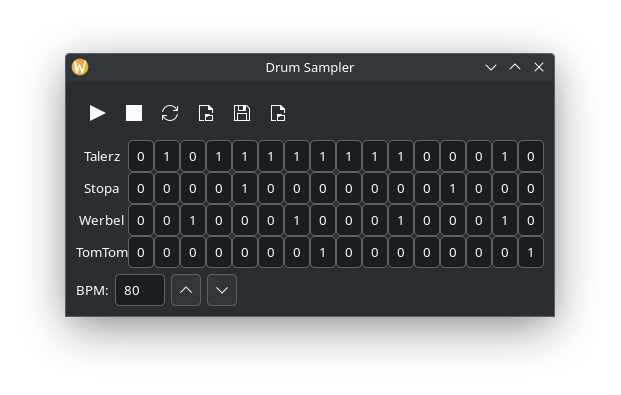
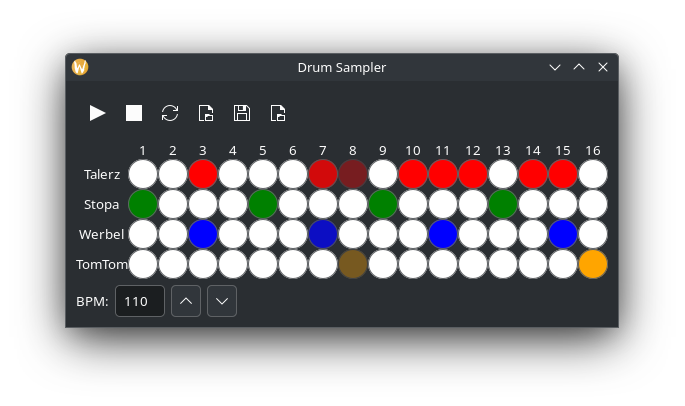
Add files via upload

diff --git a/drum-sampler-app.py b/drum-sampler-app.py
@@ -1,0 +1,258 @@
+import gi
+import random
+import time
+import threading
+import pygame
+import json
+import os
+
+gi.require_version('Gtk', '3.0')
+from gi.repository import Gtk, GLib, Gdk
+
+class DrumSamplerApp(Gtk.Window):
+    def __init__(self):
+        Gtk.Window.__init__(self, title="Drum Sampler")
+        self.set_border_width(10)
+
+        pygame.mixer.init()
+
+        self.main_box = Gtk.Box(orientation=Gtk.Orientation.VERTICAL, spacing=6)
+        self.add(self.main_box)
+
+        # Create toolbar
+        self.create_toolbar()
+
+        self.grid = Gtk.Grid()
+        self.main_box.pack_start(self.grid, True, True, 0)
+
+        self.instruments = ['Talerz', 'Stopa', 'Werbel', 'TomTom']
+        self.colors = ['red', 'green', 'blue', 'orange']
+        self.patterns = {inst: [0] * 16 for inst in self.instruments}
+        self.samples = {}
+        self.buttons = {}
+
+        # Add numbers from 1 to 16 above the pattern
+        for step in range(16):
+            label = Gtk.Label(label=str(step + 1))
+            self.grid.attach(label, step + 1, 0, 1, 1)
+
+        for idx, (instrument, color) in enumerate(zip(self.instruments, self.colors)):
+            label = Gtk.Label(label=instrument)
+            self.grid.attach(label, 0, idx + 1, 1, 1)
+
+            self.buttons[instrument] = []
+            for step in range(16):
+                button = Gtk.ToggleButton()
+                button.set_size_request(30, 30)
+                context = button.get_style_context()
+                context.add_class(f"circle-{color}")
+                button.connect("toggled", self.on_button_toggled, instrument, step)
+                self.grid.attach(button, step + 1, idx + 1, 1, 1)
+                self.buttons[instrument].append(button)
+
+        self.loop_playing = False
+        self.play_thread = None
+        self.bpm = 120  # Default BPM
+        self.create_bpm_controls()
+
+        # Add CSS for circular buttons
+        self.add_css()
+
+    def add_css(self):
+        css_provider = Gtk.CssProvider()
+        css = """
+        .circle-red, .circle-green, .circle-blue, .circle-orange {
+            border-radius: 15px;
+            background-color: white;
+        }
+        .circle-red:checked { background-color: red; }
+        .circle-green:checked { background-color: green; }
+        .circle-blue:checked { background-color: blue; }
+        .circle-orange:checked { background-color: orange; }
+        @keyframes blink-animation {
+            0% { opacity: 1; }
+            50% { opacity: 0; }
+            100% { opacity: 1; }
+        }
+        .blink {
+            animation: blink-animation 0.5s linear 2;
+        }
+        """
+        css_provider.load_from_data(css.encode())
+        Gtk.StyleContext.add_provider_for_screen(
+            Gdk.Screen.get_default(),
+            css_provider,
+            Gtk.STYLE_PROVIDER_PRIORITY_APPLICATION
+        )
+
+    def on_button_toggled(self, button, instrument, step):
+        self.patterns[instrument][step] = int(button.get_active())
+
+    def create_toolbar(self):
+        toolbar = Gtk.Toolbar()
+        self.main_box.pack_start(toolbar, False, False, 0)
+
+        button_info = [
+            ("media-playback-start", self.play_pattern, "Play"),
+            ("media-playback-stop", self.stop_pattern, "Stop"),
+            ("view-refresh", self.randomize_pattern, "Randomize"),
+            ("document-open", self.load_samples, "Load Samples"),
+            ("document-save", self.save_project, "Save Project"),
+            ("document-open", self.load_project, "Load Project")
+        ]
+
+        for icon_name, callback, tooltip in button_info:
+            button = Gtk.ToolButton()
+            button.set_icon_name(icon_name)
+            button.set_tooltip_text(tooltip)
+            button.connect("clicked", callback)
+            toolbar.insert(button, -1)
+
+    def create_bpm_controls(self):
+        bpm_box = Gtk.Box(orientation=Gtk.Orientation.HORIZONTAL, spacing=6)
+        self.main_box.pack_start(bpm_box, False, False, 0)
+
+        bpm_label = Gtk.Label(label="BPM:")
+        bpm_box.pack_start(bpm_label, False, False, 0)
+
+        self.bpm_entry = Gtk.Entry()
+        self.bpm_entry.set_text(str(self.bpm))
+        self.bpm_entry.set_width_chars(4)
+        bpm_box.pack_start(self.bpm_entry, False, False, 0)
+
+        bpm_up_button = Gtk.Button()
+        bpm_up_button.set_image(Gtk.Image.new_from_icon_name("go-up", Gtk.IconSize.SMALL_TOOLBAR))
+        bpm_up_button.set_tooltip_text("Increase BPM")
+        bpm_up_button.connect("clicked", self.bpm_step_up)
+        bpm_box.pack_start(bpm_up_button, False, False, 0)
+
+        bpm_down_button = Gtk.Button()
+        bpm_down_button.set_image(Gtk.Image.new_from_icon_name("go-down", Gtk.IconSize.SMALL_TOOLBAR))
+        bpm_down_button.set_tooltip_text("Decrease BPM")
+        bpm_down_button.connect("clicked", self.bpm_step_down)
+        bpm_box.pack_start(bpm_down_button, False, False, 0)
+
+    def bpm_step_up(self, widget):
+        self.bpm = min(300, self.bpm + 5)  # Limit maximum BPM to 300
+        self.bpm_entry.set_text(str(self.bpm))
+
+    def bpm_step_down(self, widget):
+        self.bpm = max(60, self.bpm - 5)  # Limit minimum BPM to 60
+        self.bpm_entry.set_text(str(self.bpm))
+
+    def randomize_pattern(self, widget):
+        for inst in self.instruments:
+            for i in range(16):
+                if inst == 'Stopa':
+                    self.patterns[inst][i] = random.choice([1, 0]) if i % 4 == 0 else 0
+                elif inst == 'Werbel':
+                    self.patterns[inst][i] = 1 if i % 4 == 2 else 0
+                elif inst == 'Talerz':
+                    self.patterns[inst][i] = random.choice([0, 1]) if self.patterns['Stopa'][i] == 0 else 0
+                elif inst == 'TomTom':
+                    self.patterns[inst][i] = random.choice([0, 1]) if i % 8 == 7 else 0
+
+        self.update_buttons()
+
+    def update_buttons(self):
+        for inst in self.instruments:
+            for i in range(16):
+                self.buttons[inst][i].set_active(bool(self.patterns[inst][i]))
+
+    def load_samples(self, widget):
+        for inst in self.instruments:
+            file_dialog = Gtk.FileChooserDialog(
+                title="Wybierz sample dla " + inst,
+                action=Gtk.FileChooserAction.OPEN,
+                buttons=(Gtk.STOCK_CANCEL, Gtk.ResponseType.CANCEL, Gtk.STOCK_OPEN, Gtk.ResponseType.OK))
+
+            response = file_dialog.run()
+            if response == Gtk.ResponseType.OK:
+                filename = file_dialog.get_filename()
+                self.samples[inst] = filename
+                print(f"Wczytano sample {inst}: {filename}")
+            file_dialog.destroy()
+
+    def play_pattern(self, widget):
+        if not self.loop_playing:
+            self.loop_playing = True
+            self.play_thread = threading.Thread(target=self.loop_play)
+            self.play_thread.start()
+
+    def on_button_toggled(self, button, instrument, step):
+        self.patterns[instrument][step] = int(button.get_active())
+
+    def blink_button(self, instrument, step):
+        button = self.buttons[instrument][step]
+        context = button.get_style_context()
+        context.add_class("blink")
+        GLib.timeout_add(500, lambda: context.remove_class("blink"))
+
+    def loop_play(self):
+        while self.loop_playing:
+            for step in range(16):
+                for inst in self.instruments:
+                    if self.patterns[inst][step] == 1 and inst in self.samples:
+                        pygame.mixer.Sound(self.samples[inst]).play()
+                        GLib.idle_add(self.blink_button, inst, step)
+                time.sleep(60 / self.bpm / 4)  # Calculate sleep time based on BPM
+                time.sleep(60 / self.bpm / 4)  # Calculate sleep time based on BPM
+
+    def stop_pattern(self, widget):
+        self.loop_playing = False
+        if self.play_thread is not None:
+            self.play_thread.join()
+
+    def save_project(self, widget):
+        dialog = Gtk.FileChooserDialog(
+            title="Zapisz Projekt",
+            action=Gtk.FileChooserAction.SAVE,
+            buttons=(Gtk.STOCK_CANCEL, Gtk.ResponseType.CANCEL, Gtk.STOCK_SAVE, Gtk.ResponseType.OK)
+        )
+        dialog.set_current_name("projekt.drsmp")
+        response = dialog.run()
+        
+        if response == Gtk.ResponseType.OK:
+            filename = dialog.get_filename()
+            project_data = {
+                "patterns": self.patterns,
+                "samples": self.samples,
+                "bpm": self.bpm
+            }
+            
+            with open(filename, 'w') as f:
+                json.dump(project_data, f)
+            
+            print(f"Projekt zapisany jako: {filename}")
+        
+        dialog.destroy()
+
+    def load_project(self, widget):
+        dialog = Gtk.FileChooserDialog(
+            title="Wczytaj Projekt",
+            action=Gtk.FileChooserAction.OPEN,
+            buttons=(Gtk.STOCK_CANCEL, Gtk.ResponseType.CANCEL, Gtk.STOCK_OPEN, Gtk.ResponseType.OK)
+        )
+        dialog.set_current_name("projekt.drsmp")
+        response = dialog.run()
+        
+        if response == Gtk.ResponseType.OK:
+            filename = dialog.get_filename()
+            
+            with open(filename, 'r') as f:
+                project_data = json.load(f)
+            
+            self.patterns = project_data["patterns"]
+            self.samples = project_data["samples"]
+            self.bpm = project_data.get("bpm", 120)  # Default to 120 if not found
+            self.bpm_entry.set_text(str(self.bpm))
+            
+            self.update_buttons()
+            print(f"Projekt wczytany z: {filename}")
+        
+        dialog.destroy()
+
+win = DrumSamplerApp()
+win.connect("destroy", Gtk.main_quit)
+win.show_all()
+Gtk.main()
